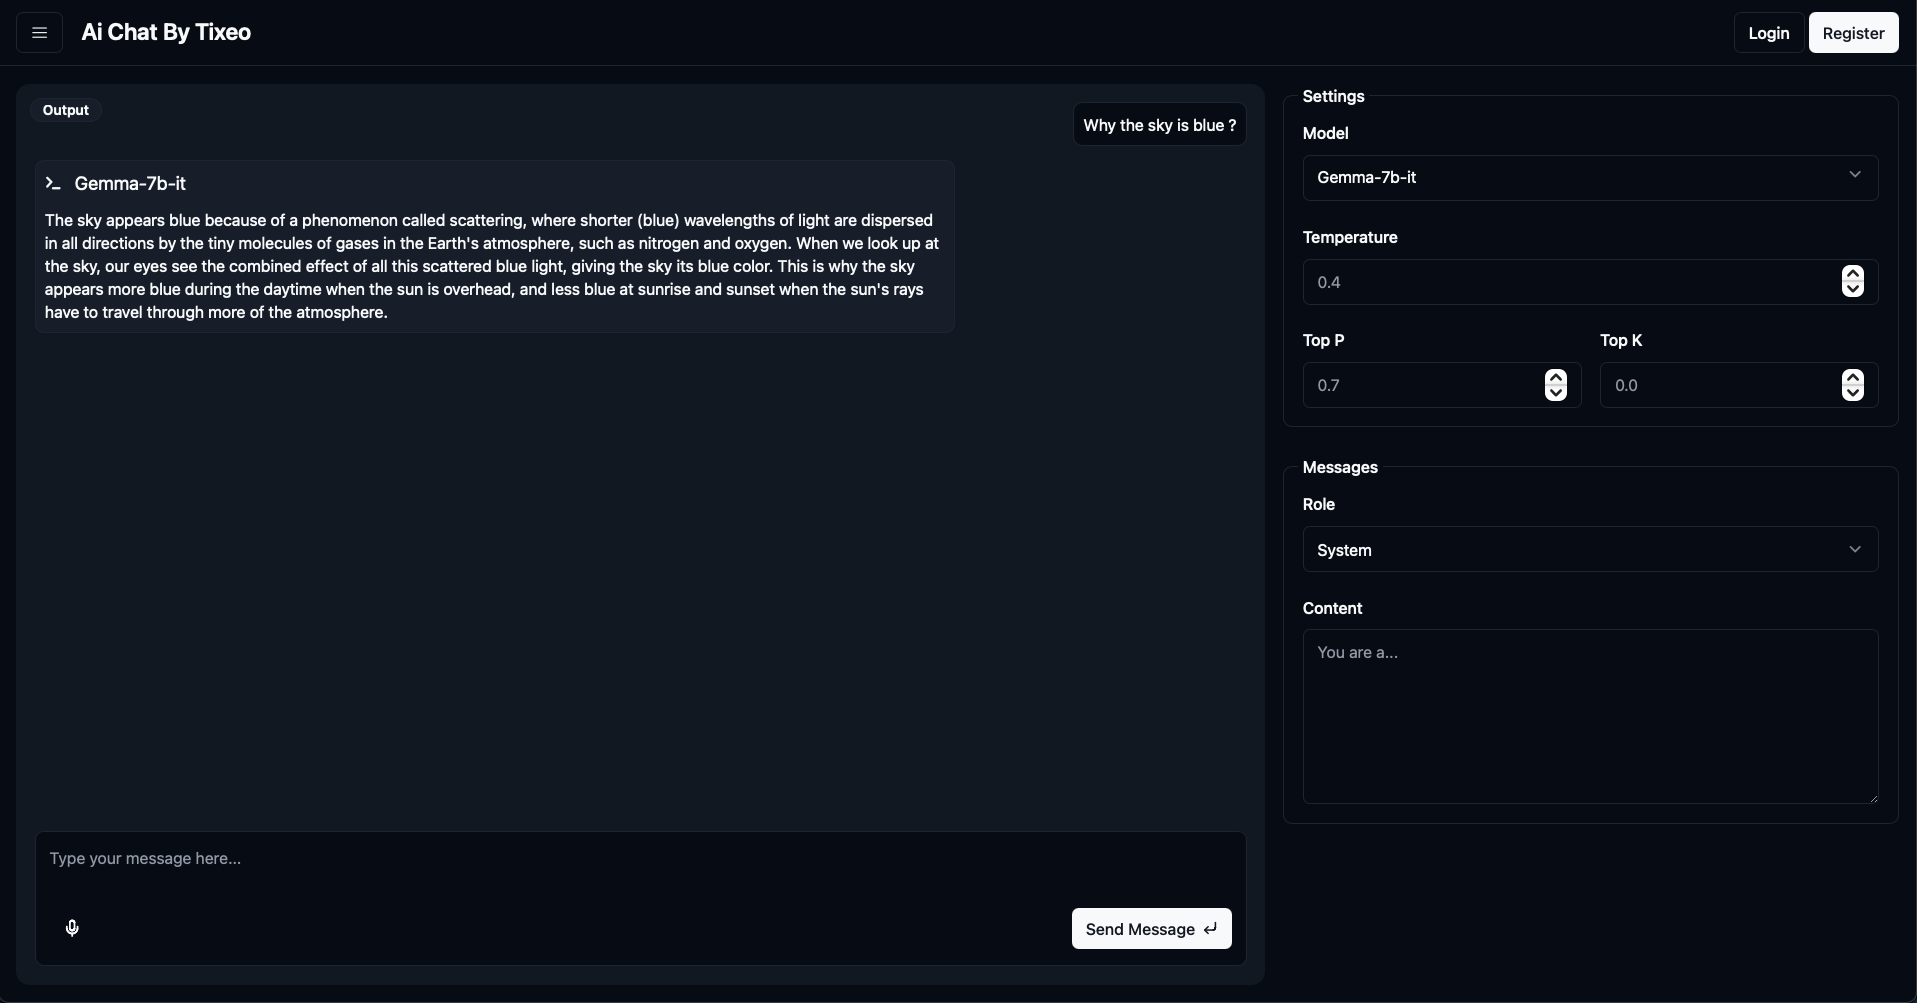
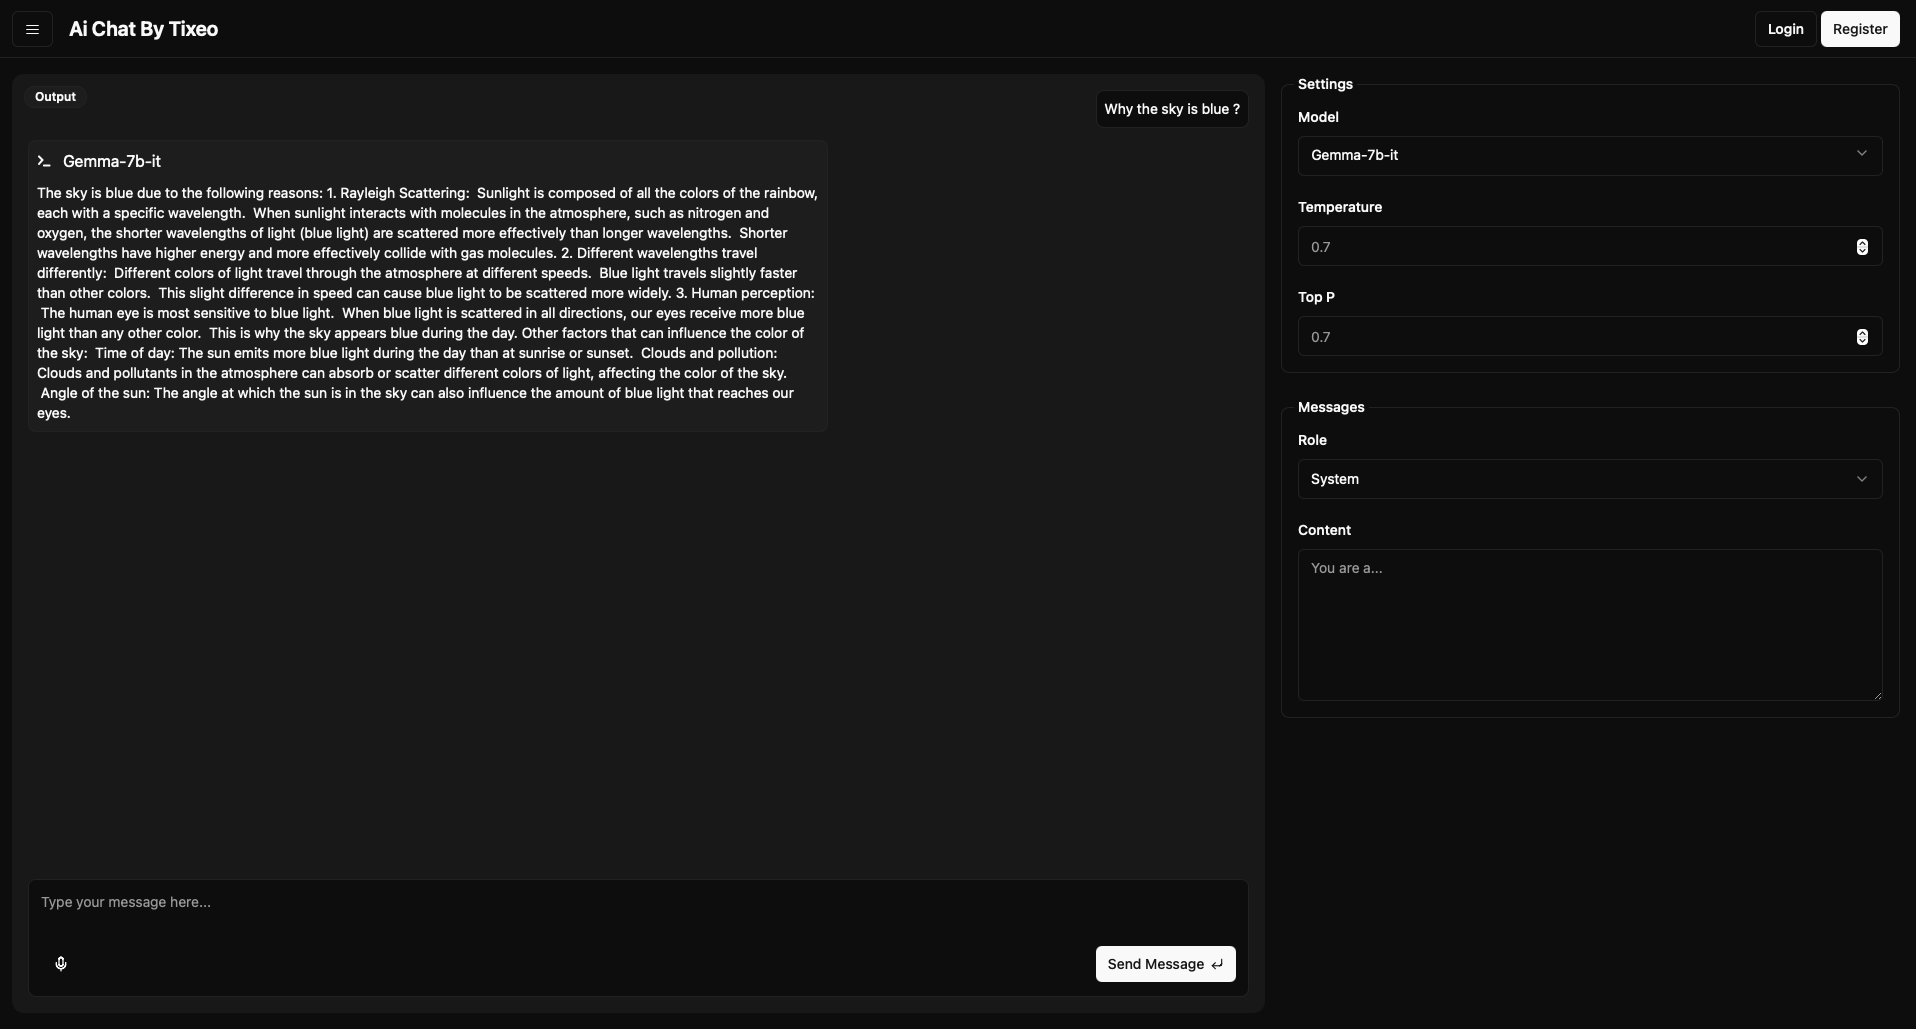
Add Login without account

diff --git a/src/App.jsx b/src/App.jsx
@@ -9,6 +9,12 @@ import { Textarea } from "@/components/ui/textarea";
 import { Badge } from "@/components/ui/badge";
 import { ThemeProvider } from "@/components/theme-provider";
 import { CommandDialog, CommandInput, CommandList, CommandEmpty, CommandGroup, CommandItem } from "@/components/ui/command";
+import { Dialog, DialogContent, DialogDescription, DialogHeader, DialogTitle, DialogTrigger, DialogFooter, DialogClose } from "@/components/ui/dialog";
+import { Card, CardContent, CardDescription, CardFooter, CardHeader, CardTitle, } from "@/components/ui/card"
+import { InputOTP, InputOTPGroup, InputOTPSeparator, InputOTPSlot } from "@/components/ui/input-otp"
+import { AlignCenter, AlignJustify } from 'lucide-react';
+
+
 
 const API_KEY = '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';
 const API_URL = 'https://api.groq.com/openai/v1/chat/completions';
@@ -22,6 +28,10 @@ export default function Component() {
     { role: 'system', content: 'Vous êtes un assistant IA utile et amical.' }
   ]);
   const chatContainerRef = useRef(null);
+  const [email, setEmail] = useState('');
+  const [emailMessage, setEmailMessage] = useState('');
+  const [checkCodeMessage, setCheckCodeMessage] = useState('');
+  const [otpValue, setOtpValue] = useState("")
 
   {/* bottom scroll */}
   useEffect(() => {
@@ -51,31 +61,26 @@ export default function Component() {
   {/* cmd+b */}
   useEffect(() => {
     const handleKeyDown = (event) => {
-      if ((event.ctrlKey || event.metaKey) && event.key === 'Enter') {
-        event.preventDefault(); // Empêcher le retour à la ligne
-        const form = document.querySelector('form');
-        if (form) {
-          const message = form.elements.message.value;
-              if (message) {
-      console.log(message);
-    }
-          form.elements.message.value = ''; // Vider le textarea
-        }
+      if (event.metaKey && event.key === 'b') {
+        event.preventDefault();
+        setOpen(true);
       }
     };
 
     window.addEventListener('keydown', handleKeyDown);
+
     return () => {
       window.removeEventListener('keydown', handleKeyDown);
     };
   }, []);
 
   
-
+  {/* openHistory */}
   const handleMenuClick = () => {
     setOpen(true);
   };
 
+  {/* sendMessage */}
   const handleSubmit = async (e) => {
     e.preventDefault();
     if (!message.trim()) return;
@@ -137,6 +142,60 @@ export default function Component() {
   };
 
 
+
+
+  {/* send email */}
+  const handleEmailSender = async () => {
+    if (!email) {
+      setEmailMessage(`There is no email`);
+    } else if (email.includes('@') && email.includes('.')) {
+      setEmailMessage(`Code send at: ${email}, check your spam inbox!`);
+      try {
+        const response = await fetch('http://localhost:3001/api/email-sender', {
+          method: 'POST',
+          headers: {
+            'Content-Type': 'application/json'
+          },
+          body: JSON.stringify({ email })
+        });
+        
+        if (response.ok) {
+          console.log('Données envoyées avec succès');
+        } else {
+          console.error('Erreur lors de l\'envoi des données');
+        }
+      } catch (error) {
+        console.error('Erreur:', error);
+      }
+    } else {
+      setEmailMessage(`Not valid email: ${email}`);
+    }
+  };
+  const handleEmailInputChange = (event) => {
+    setEmail(event.target.value);
+  };
+
+  {/* check email */}
+  const handleEmailChecker = async () => {
+    try {
+      const response = await fetch('http://localhost:3001/api/email-checker', {
+        method: 'POST',
+        headers: {
+          'Content-Type': 'application/json'
+        },
+        body: JSON.stringify({ email, otpValue })
+      });
+      
+      if (response.status === 200) {
+        setCheckCodeMessage(`You're connected!`);
+      } else {
+        setCheckCodeMessage(`Not correct`);
+      }
+    } catch (error) {
+      setCheckCodeMessage(`Error`);
+    }
+  };
+
   return (
     <ThemeProvider defaultTheme="dark" storageKey="vite-ui-theme">
       <div className="grid h-screen w-full">
@@ -146,19 +205,59 @@ export default function Component() {
               <MenuIcon className="size-4" />
             </Button>
             <h1 className="text-xl font-semibold p-3">Ai Chat By Tixeo</h1>
-            <Button variant="outline" size="sm" className="ml-auto gap-1.5 text-sm">
-              Login
-            </Button>
-            <Button size="sm" className="gap-1.5 text-sm">
+            <Dialog>
+              <DialogTrigger asChild>
+                <Button variant="outline" className="ml-auto">Login</Button>
+              </DialogTrigger>
+              <DialogContent className="sm:max-w-md">
+                <DialogHeader>
+                  <DialogTitle>Login</DialogTitle>
+                  <DialogDescription>
+                    Login to the plateforme to save your chats!
+                  </DialogDescription>
+                </DialogHeader>
+                <div className="flex items-center space-x-2">
+                  <div className="grid flex-1 gap-2">
+                    <Label htmlFor="email" className="sr-only">Email</Label>
+                    <Input id="email" value={email} type="email" placeholder="name@example.com" onChange={handleEmailInputChange}/>
+                  </div>
+                </div>
+                {(emailMessage == 'There is no email' || emailMessage.startsWith('Not valid email:') || emailMessage == '') && <Button type="button" onClick={handleEmailSender}>Verify</Button>}
+                {emailMessage && <DialogDescription>{emailMessage}</DialogDescription>}
+                {emailMessage.startsWith('Code send at:') && <div className="flex items-center justify-center flex-col gap-5">
+                  <InputOTP maxLength={6} onChange={(otpValue) => setOtpValue(otpValue)} value={otpValue}>
+                    <InputOTPGroup>
+                      <InputOTPSlot index={0} />
+                      <InputOTPSlot index={1} />
+                      <InputOTPSlot index={2} />
+                    </InputOTPGroup>
+                    <InputOTPSeparator />
+                    <InputOTPGroup>
+                      <InputOTPSlot index={3} />
+                      <InputOTPSlot index={4} />
+                      <InputOTPSlot index={5} />
+                    </InputOTPGroup>
+                  </InputOTP>
+                  {checkCodeMessage && <DialogDescription>{checkCodeMessage}</DialogDescription>}
+                  <Button className="w-full" onClick={handleEmailChecker}>Continue</Button>
+                </div>}
+                {/*<DialogFooter className="sm:justify-start">
+                  <DialogClose asChild>
+                    <Button type="button" variant="secondary">Close</Button>
+                  </DialogClose>
+                </DialogFooter>*/}
+              </DialogContent>
+            </Dialog>
+            {/*<Button size="sm" className="gap-1.5 text-sm">
               Register
-            </Button>
+            </Button>*/}
           </header>
 
 
           {/* CommandBar */}
           <CommandDialog open={open} onOpenChange={setOpen}>
             <CommandInput placeholder="Type a search..." />
-            <CommandList>
+            <CommandList className="custom-scrollbar">
               <CommandEmpty>No results found.</CommandEmpty>
               <CommandGroup heading="- Hier -">
                 <CommandItem>Node JS Server to index.html</CommandItem>
@@ -266,9 +365,13 @@ export default function Component() {
                 </div>
                 <div className="grid gap-3">
                   <Label htmlFor="temperature">Temperature</Label>
-                  <Input id="temperature" type="number" placeholder="0.4" />
+                  <Input id="temperature" type="number" placeholder="0.7" />
                 </div>
-                <div className="grid grid-cols-2 gap-4">
+                <div className="grid gap-3">
+                  <Label htmlFor="top-p">Top P</Label>
+                  <Input id="top-p" type="number" placeholder="0.7" />
+                </div>
+                {/*<div className="grid grid-cols-2 gap-4">
                   <div className="grid gap-3">
                     <Label htmlFor="top-p">Top P</Label>
                     <Input id="top-p" type="number" placeholder="0.7" />
@@ -277,7 +380,7 @@ export default function Component() {
                     <Label htmlFor="top-k">Top K</Label>
                     <Input id="top-k" type="number" placeholder="0.0" />
                   </div>
-                </div>
+                </div>*/}
               </fieldset>
               <fieldset className="grid gap-6 rounded-lg border p-4">
                 <legend className="-ml-1 px-1 text-sm font-medium">Messages</legend>
@@ -390,5 +493,11 @@ function MenuIcon(props) {
   return (
 <svg width="15" height="15" viewBox="0 0 15 15" fill="none" xmlns="http://www.w3.org/2000/svg"><path d="M1.5 3C1.22386 3 1 3.22386 1 3.5C1 3.77614 1.22386 4 1.5 4H13.5C13.7761 4 14 3.77614 14 3.5C14 3.22386 13.7761 3 13.5 3H1.5ZM1 7.5C1 7.22386 1.22386 7 1.5 7H13.5C13.7761 7 14 7.22386 14 7.5C14 7.77614 13.7761 8 13.5 8H1.5C1.22386 8 1 7.77614 1 7.5ZM1 11.5C1 11.2239 1.22386 11 1.5 11H13.5C13.7761 11 14 11.2239 14 11.5C14 11.7761 13.7761 12 13.5 12H1.5C1.22386 12 1 11.7761 1 11.5Z" fill="currentColor" fill-rule="evenodd" clip-rule="evenodd"></path></svg>
 
+  )
+}
+
+function CopyIcon(props) {
+  return (
+    <svg xmlns="http://www.w3.org/2000/svg" width="24" height="24" viewBox="0 0 24 24" fill="none" stroke="currentColor" stroke-width="2" stroke-linecap="round" stroke-linejoin="round" class="lucide lucide-copy h-4 w-4"><rect width="14" height="14" x="8" y="8" rx="2" ry="2"></rect><path d="M4 16c-1.1 0-2-.9-2-2V4c0-1.1.9-2 2-2h10c1.1 0 2 .9 2 2"></path></svg>
   )
 }

diff --git a/src/components/ui/input-otp.jsx b/src/components/ui/input-otp.jsx
@@ -1,0 +1,55 @@
+"use client"
+
+import * as React from "react"
+import { OTPInput, OTPInputContext } from "input-otp"
+import { Dot } from "lucide-react"
+
+import { cn } from "@/lib/utils"
+
+const InputOTP = React.forwardRef(({ className, containerClassName, ...props }, ref) => (
+  <OTPInput
+    ref={ref}
+    containerClassName={cn("flex items-center gap-2 has-[:disabled]:opacity-50", containerClassName)}
+    className={cn("disabled:cursor-not-allowed", className)}
+    {...props} />
+))
+InputOTP.displayName = "InputOTP"
+
+const InputOTPGroup = React.forwardRef(({ className, ...props }, ref) => (
+  <div ref={ref} className={cn("flex items-center", className)} {...props} />
+))
+InputOTPGroup.displayName = "InputOTPGroup"
+
+const InputOTPSlot = React.forwardRef(({ index, className, ...props }, ref) => {
+  const inputOTPContext = React.useContext(OTPInputContext)
+  const { char, hasFakeCaret, isActive } = inputOTPContext.slots[index]
+
+  return (
+    (<div
+      ref={ref}
+      className={cn(
+        "relative flex h-10 w-10 items-center justify-center border-y border-r border-input text-sm transition-all first:rounded-l-md first:border-l last:rounded-r-md",
+        isActive && "z-10 ring-2 ring-ring ring-offset-background",
+        className
+      )}
+      {...props}>
+      {char}
+      {hasFakeCaret && (
+        <div
+          className="pointer-events-none absolute inset-0 flex items-center justify-center">
+          <div className="h-4 w-px animate-caret-blink bg-foreground duration-1000" />
+        </div>
+      )}
+    </div>)
+  );
+})
+InputOTPSlot.displayName = "InputOTPSlot"
+
+const InputOTPSeparator = React.forwardRef(({ ...props }, ref) => (
+  <div ref={ref} role="separator" {...props}>
+    <Dot />
+  </div>
+))
+InputOTPSeparator.displayName = "InputOTPSeparator"
+
+export { InputOTP, InputOTPGroup, InputOTPSlot, InputOTPSeparator }

diff --git a/src/components/ui/card.jsx b/src/components/ui/card.jsx
@@ -1,0 +1,50 @@
+import * as React from "react"
+
+import { cn } from "@/lib/utils"
+
+const Card = React.forwardRef(({ className, ...props }, ref) => (
+  <div
+    ref={ref}
+    className={cn("rounded-lg border bg-card text-card-foreground shadow-sm", className)}
+    {...props} />
+))
+Card.displayName = "Card"
+
+const CardHeader = React.forwardRef(({ className, ...props }, ref) => (
+  <div
+    ref={ref}
+    className={cn("flex flex-col space-y-1.5 p-6", className)}
+    {...props} />
+))
+CardHeader.displayName = "CardHeader"
+
+const CardTitle = React.forwardRef(({ className, ...props }, ref) => (
+  <h3
+    ref={ref}
+    className={cn("text-2xl font-semibold leading-none tracking-tight", className)}
+    {...props} />
+))
+CardTitle.displayName = "CardTitle"
+
+const CardDescription = React.forwardRef(({ className, ...props }, ref) => (
+  <p
+    ref={ref}
+    className={cn("text-sm text-muted-foreground", className)}
+    {...props} />
+))
+CardDescription.displayName = "CardDescription"
+
+const CardContent = React.forwardRef(({ className, ...props }, ref) => (
+  <div ref={ref} className={cn("p-6 pt-0", className)} {...props} />
+))
+CardContent.displayName = "CardContent"
+
+const CardFooter = React.forwardRef(({ className, ...props }, ref) => (
+  <div
+    ref={ref}
+    className={cn("flex items-center p-6 pt-0", className)}
+    {...props} />
+))
+CardFooter.displayName = "CardFooter"
+
+export { Card, CardHeader, CardFooter, CardTitle, CardDescription, CardContent }

diff --git a/src/index.css b/src/index.css
@@ -68,19 +68,18 @@
     }
   }
 
-  /* Custom scroolbar */
-.custom-scrollbar {
-  @apply overflow-auto;
-}
-
-.custom-scrollbar::-webkit-scrollbar {
-  width: 6.5px;
-}
-
-.custom-scrollbar::-webkit-scrollbar-thumb {
-  @apply bg-background rounded-lg;
-}
-
-.custom-scrollbar::-webkit-scrollbar-track {
-  @apply bg-muted/40 rounded-lg;
-}
+  .custom-scrollbar {
+    @apply overflow-auto;
+  }
+  
+  .custom-scrollbar::-webkit-scrollbar {
+    width: 6.5px;
+  }
+  
+  .custom-scrollbar::-webkit-scrollbar-thumb {
+    @apply bg-background rounded-lg;
+  }
+  
+  .custom-scrollbar::-webkit-scrollbar-track {
+    @apply bg-muted/40 rounded-lg;
+  }

diff --git a/tailwind.config.js b/tailwind.config.js
@@ -66,16 +66,20 @@ module.exports = {
           from: { height: "var(--radix-accordion-content-height)" },
           to: { height: "0" },
         },
+        "caret-blink": {
+          "0%,70%,100%": { opacity: "1" },
+          "20%,50%": { opacity: "0" },
+        },
       },
       animation: {
         "accordion-down": "accordion-down 0.2s ease-out",
         "accordion-up": "accordion-up 0.2s ease-out",
+        "caret-blink": "caret-blink 1.25s ease-out infinite",
       },
       padding: {
         '15': '15px',
-      }
+      },
     },
   },
   plugins: [require("tailwindcss-animate", require('tailwind-scrollbar'),)],
-  
 }
